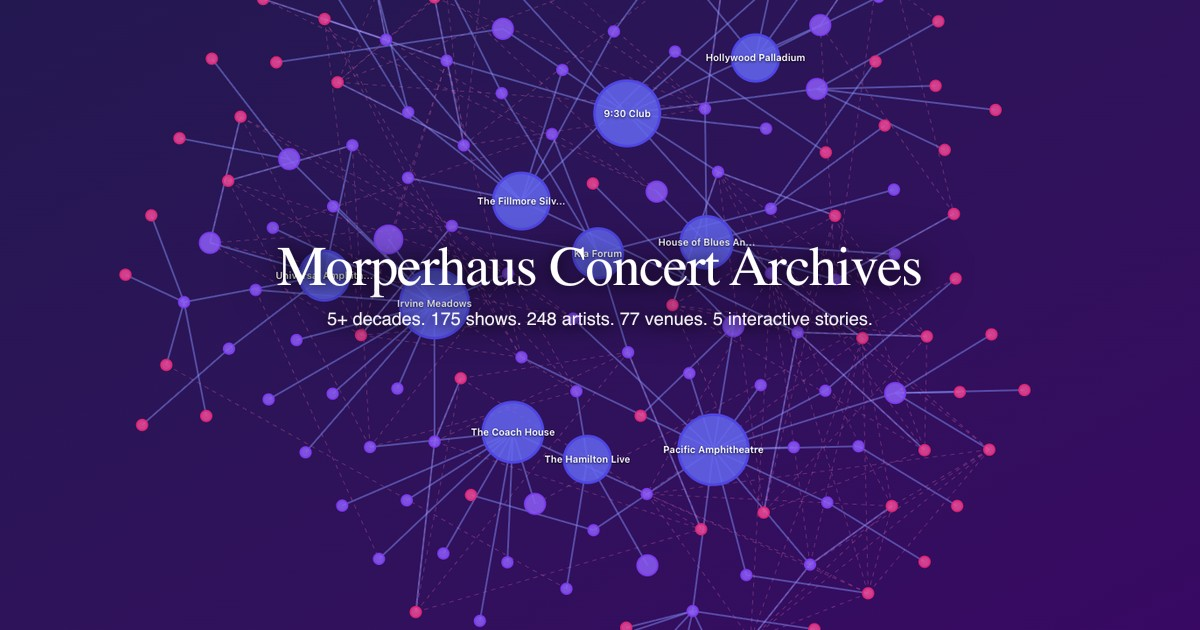
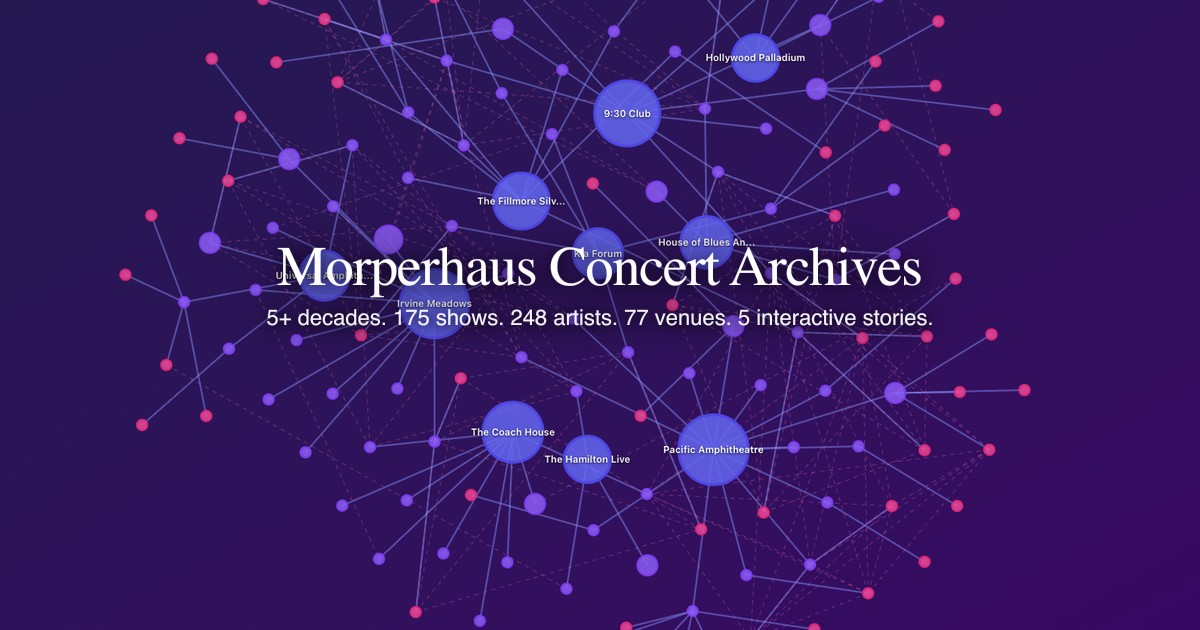
feat: Improve OG image subtitle readability
Increase subtitle font size from 18px to 22px for better legibility when
scaled down in social media feeds. At 1200x630, the 22px subtitle will
render at approximately 9px in typical feed previews, compared to 7.5px
at the previous 18px size.

🤖 Generated with [Claude Code](https://claude.com/claude-code)

Changed region(s): [[0.2158, 0.4825, 0.7708, 0.5429]]

diff --git a/scripts/generate-og-simple.ts b/scripts/generate-og-simple.ts
@@ -118,7 +118,7 @@ async function main() {
           }
           .subtitle {
             font-family: 'Source Sans 3', sans-serif;
-            font-size: 18px;
+            font-size: 22px;
             font-weight: 400;
             fill: rgba(255,255,255,0.95);
             letter-spacing: 0;
